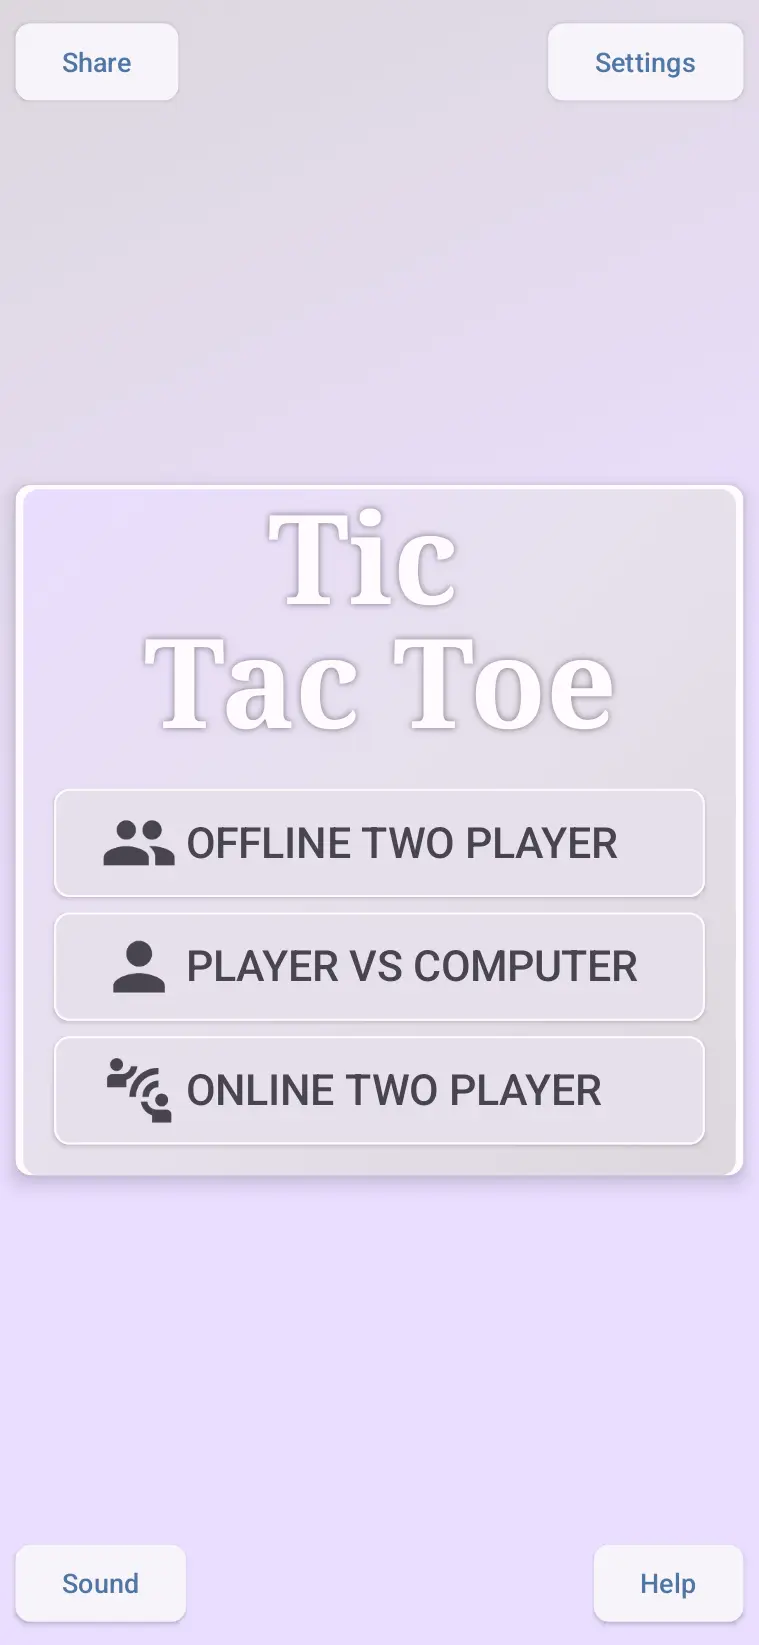
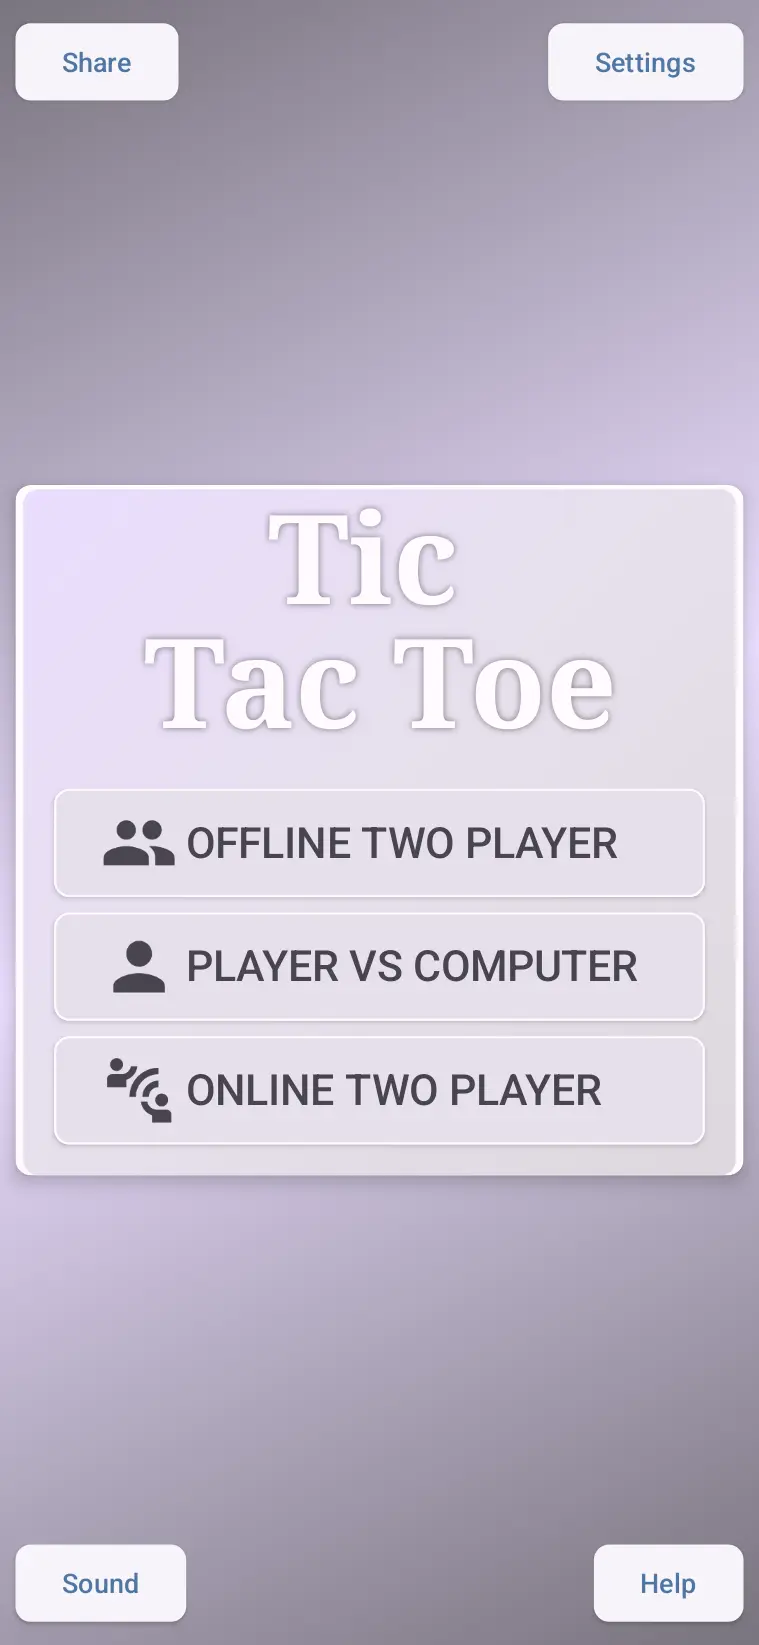
Update Home UI: Revamped layout and styling

diff --git a/app/src/main/java/com/coderbdk/tictactoe/ui/home/HomeScreen.kt b/app/src/main/java/com/coderbdk/tictactoe/ui/home/HomeScreen.kt
@@ -57,9 +57,9 @@ fun HomeScreen(navController: NavController) {
             .background(
                 brush = Brush.linearGradient(
                     listOf(
-                        colorScheme.surfaceDim,
+                        colorScheme.outline,
                         colorScheme.primaryContainer,
-                        colorScheme.primaryContainer
+                        colorScheme.outline
                     )
                 )
             )
